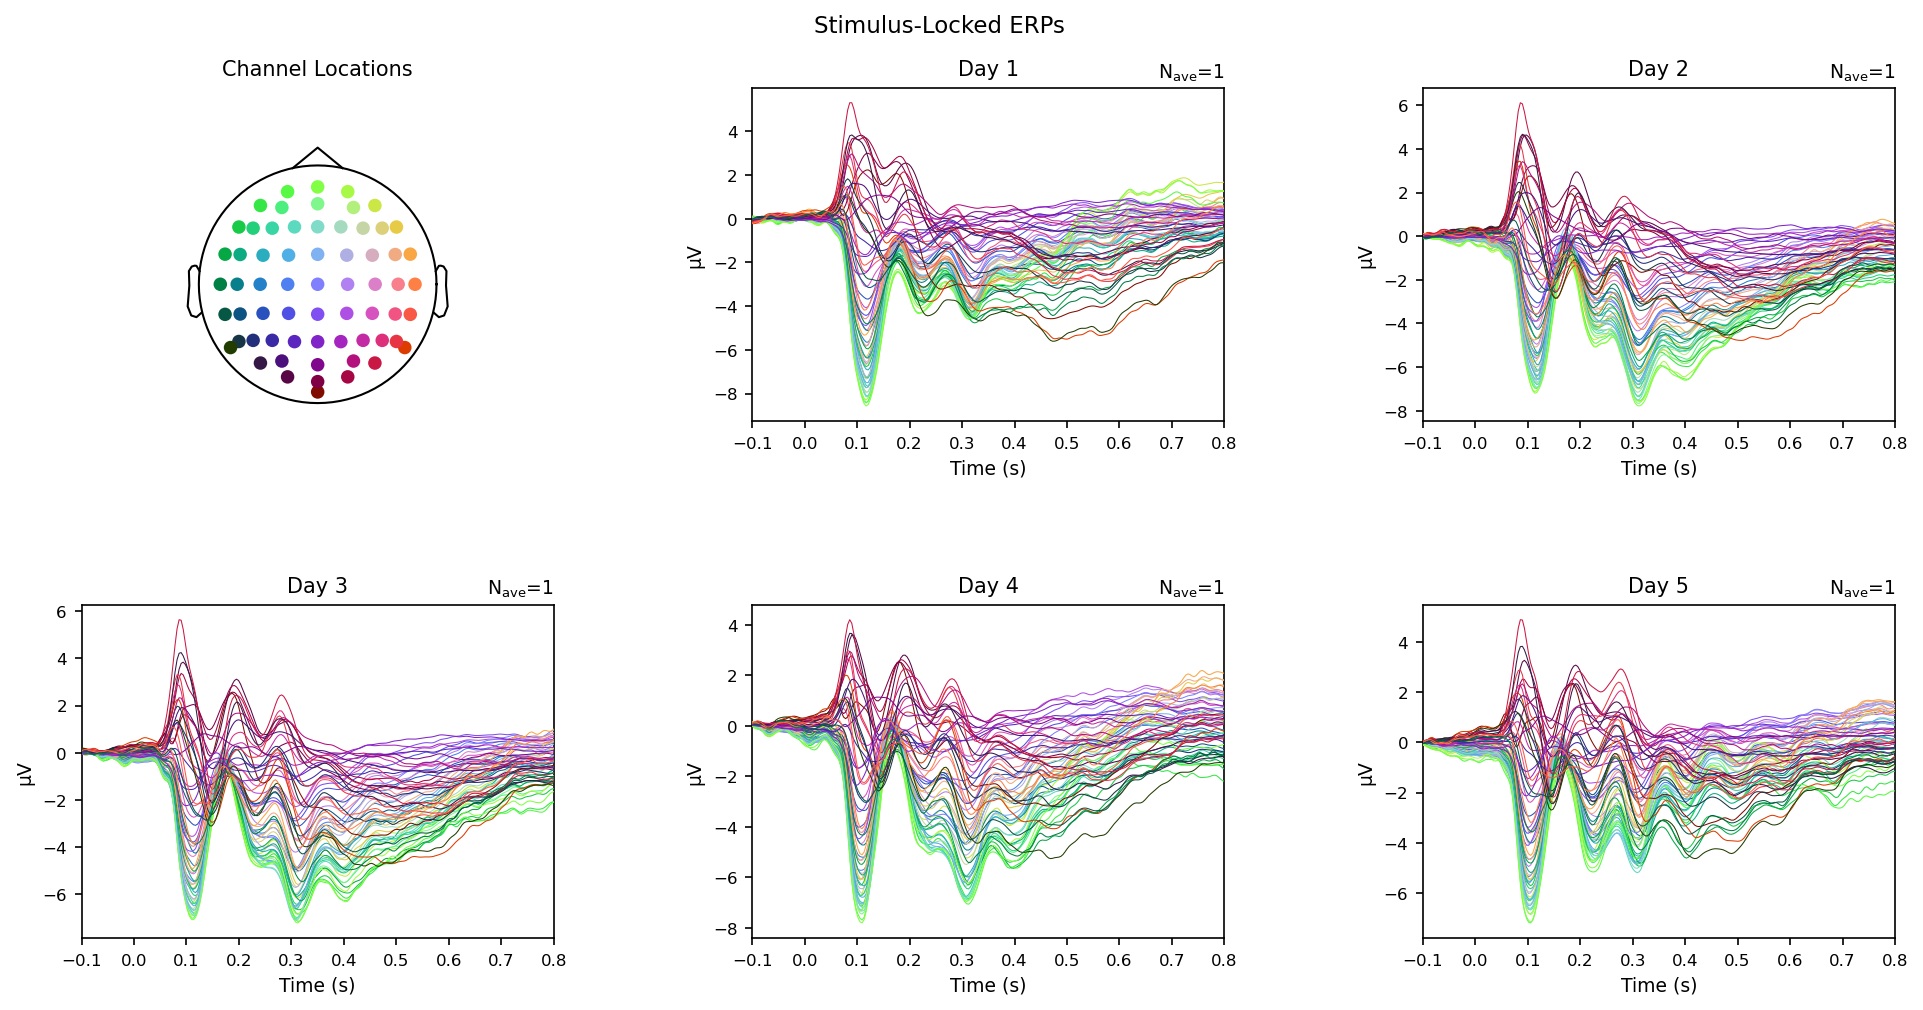
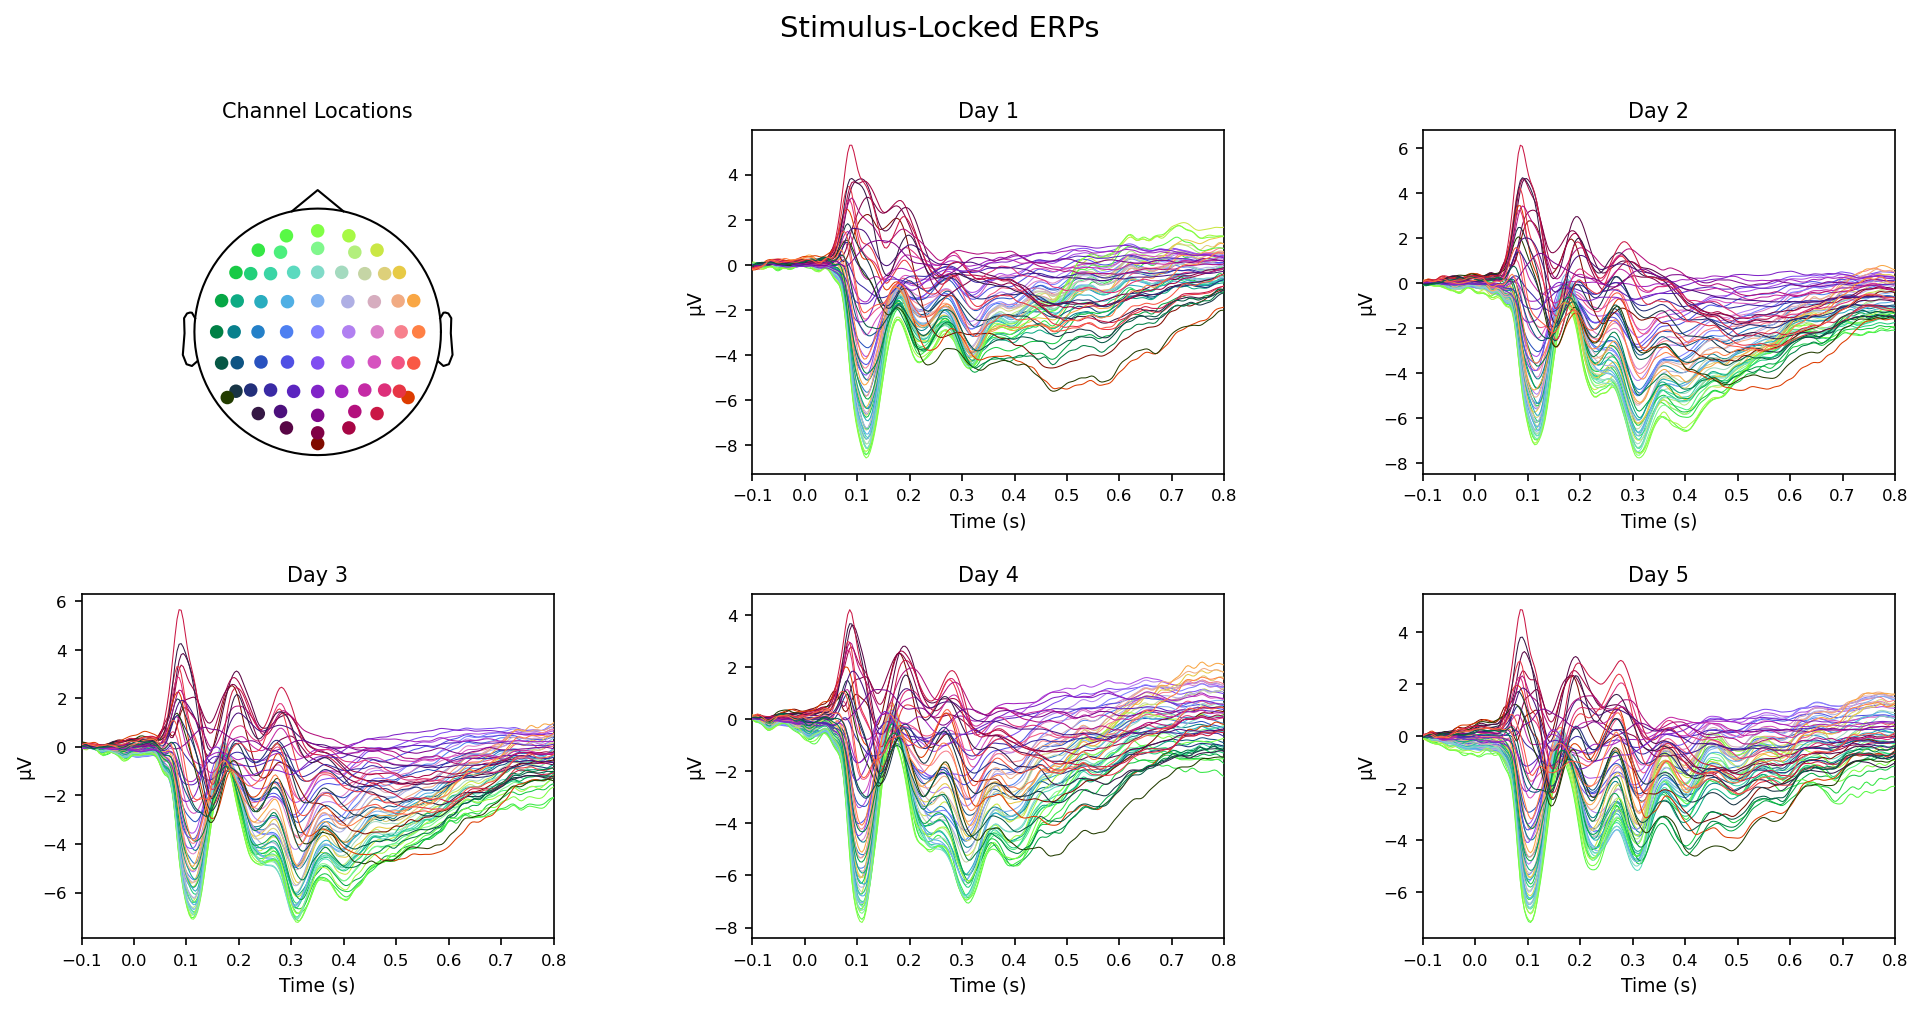
.

diff --git a/code/presentation_figure.py b/code/presentation_figure.py
@@ -110,8 +110,8 @@ def plot_presentation_erp_stim(output_dir, figures_dir):
         fig, axes = plt.subplots(2, 3, figsize=(13, 7), squeeze=False)
         # Adjust first so parent_bbox is accurate when we position the sensor inset
         fig.subplots_adjust(
-            left=0.06, right=0.99, bottom=0.10, top=0.91,
-            wspace=0.42, hspace=0.55,
+            left=0.06, right=0.99, bottom=0.10, top=0.87,
+            wspace=0.42, hspace=0.35,
         )
 
         # Panel [0,0]: sensor colormap only — plot Day 1 to capture inset, then clear ERP
@@ -156,11 +156,14 @@ def plot_presentation_erp_stim(output_dir, figures_dir):
             )
             ax.set_title(f"Day {day}")
             ax.set_xlim(-0.1, 0.8)
+            for txt in list(ax.texts):
+                if "ave" in txt.get_text():
+                    txt.remove()
             new_axes = [a for a in fig.axes if id(a) not in axes_before]
             for child_ax in new_axes:
                 child_ax.remove()
 
-        fig.suptitle("Stimulus-Locked ERPs", fontsize=11)
+        fig.suptitle("Stimulus-Locked ERPs", fontsize=14)
         fig.savefig(fig_path, dpi=150, bbox_inches="tight")
         plt.close(fig)
     return fig_path
